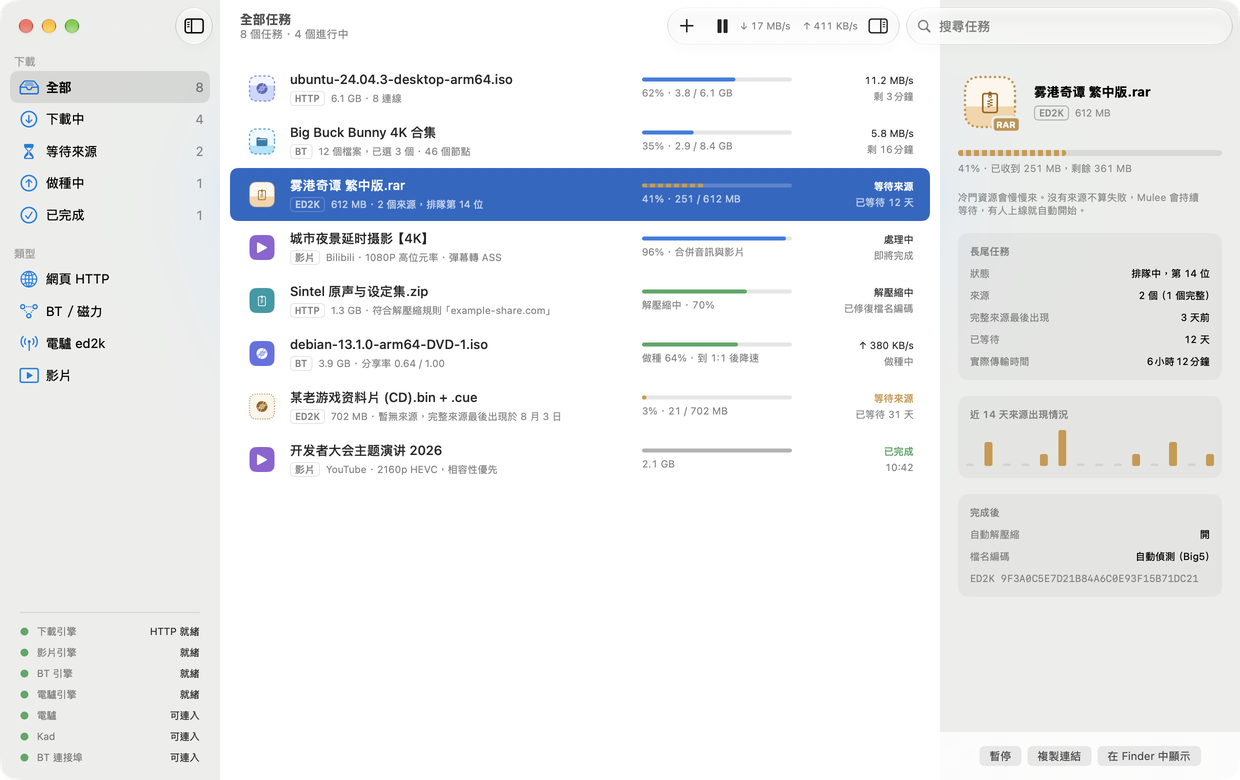
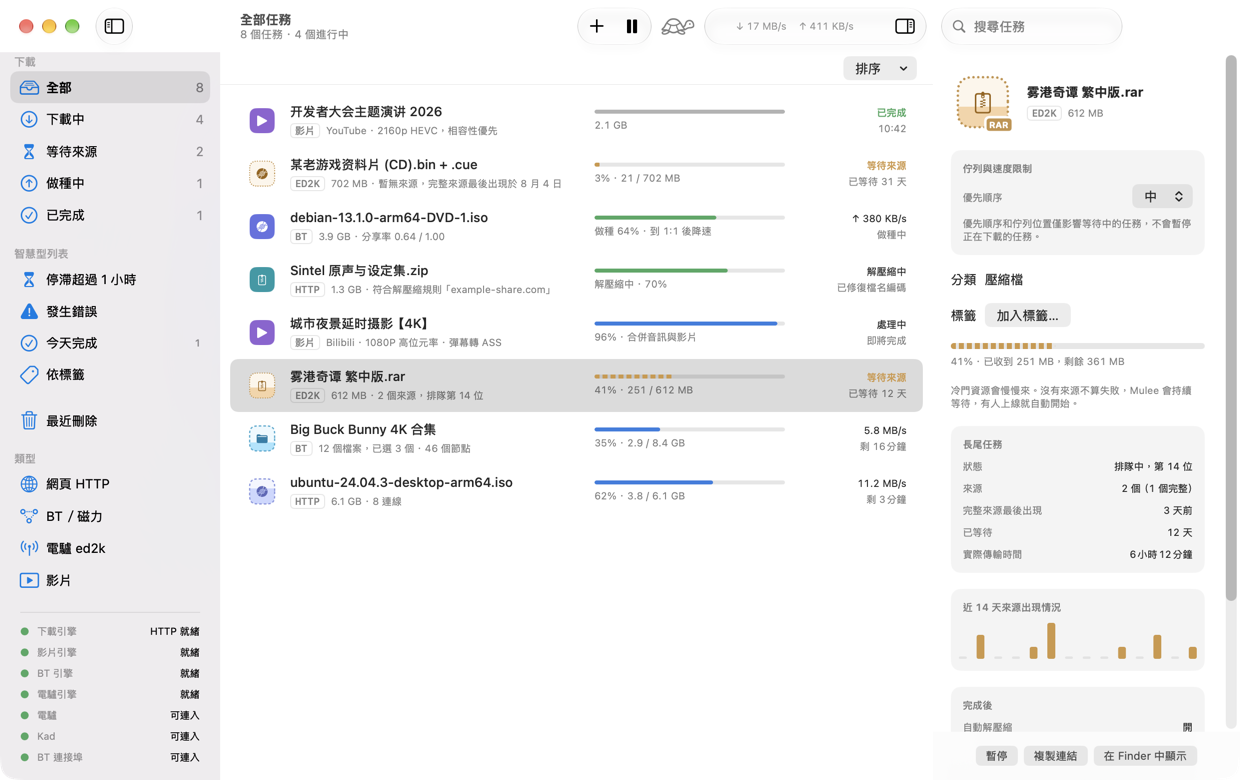
docs: new screenshots and README for 0.1.11

diff --git a/README.md b/README.md
@@ -51,13 +51,13 @@
 
 Mulee supports HTTP / HTTPS / FTP, BitTorrent and magnet links, eD2k, and video downloads. Downloads share a queue and settings. It is free and open source, and will never include ads.
 
-Mulee supports **Apple Silicon Macs running macOS 26 or later**. The app is available in English, Simplified Chinese, and Traditional Chinese.
+Mulee supports **Apple Silicon Macs running macOS 26 or later**. The interface supports English, Simplified Chinese, Traditional Chinese, and Japanese, selectable in Settings.
 
 > [!IMPORTANT]
 > Mulee is a download tool. Only download content you have the right to access. Mulee does not include resource search.
 
 > [!NOTE]
-> Mulee is an early release in the 0.1.x series. The current project version is **0.1.3**.
+> Mulee is an early release in the 0.1.x series. The current project version is **0.1.11**.
 
 ---
 
@@ -81,16 +81,17 @@ All tasks shown are sample data. Click an image to view it at full size.
 
 | Feature | Description |
 |---|---|
-| HTTP / HTTPS / FTP | aria2 handles multi-connection downloads, resuming, and restoring tasks after a restart. |
-| BitTorrent / magnet / .torrent | libtorrent 2.0 supports file selection and seeding policies: throttle or stop at a 1:1 share ratio, with an optional exemption for private torrents. Public tracker subscriptions are supported. |
-| eD2k | Uses aMule 3.1 (`amuled`). Downloads of rare files can wait for sources for weeks. Shows queue position, source counts, when a complete source was last seen, and source activity over the past 14 days. Waiting for sources is a normal task state. |
-| Video | Uses yt-dlp, with Bilibili and YouTube as the main supported sites. Bilibili danmaku can be converted to ASS subtitles. Mulee downloads and verifies yt-dlp, Deno, and ffmpeg itself. |
+| HTTP / HTTPS / FTP | aria2 supports multi-connection downloads, resuming after a restart, Metalink, mirrors, proxies, checksums, link replacement to resume downloads, and download rules. HTTP video downloads can play while downloading. |
+| BitTorrent / magnet / .torrent | libtorrent 2.0 supports file selection, public tracker subscriptions and editing, peer bans, torrent creation, watch folders, playback while downloading, and copying magnet links. Seeding policies use share ratio and time limits, with separate settings for private torrents. |
+| eD2k | Uses aMule 3.1 (`amuled`). Downloads of rare files can wait for sources for weeks; task details show queue position, source counts, when a complete source was last seen, and source activity over the past 14 days. |
+| Video | yt-dlp supports Bilibili parts and collections and individual video selection from YouTube playlists, subtitles, audio-only downloads, time ranges, and embedding metadata, thumbnails, and chapters; Bilibili danmaku can be converted to ASS subtitles. Mulee downloads and verifies yt-dlp, Deno, ffmpeg, and ffprobe itself. |
 | Thunder links | Decodes `thunder://` links and passes the original URL to the appropriate engine. |
 | Automatic extraction | 7-Zip extracts completed downloads, stores password-rule secrets in Keychain, and repairs garbled GBK / Big5 / Shift-JIS filenames. |
+| Queue & organization | Per-task speed limits and priorities, stalled tasks yielding their slots, queue ordering, sorting, tags, smart lists, Recently Deleted, and tracking of moved files. Global speed and concurrency limits apply across download types. |
 | Network diagnostics | Checks whether P2P traffic goes through a proxy and whether listening ports accept incoming connections. Includes an eD2k direct rule to copy and instructions for port forwarding. |
-| macOS integration | Default handler for magnet / ed2k / thunder / .torrent, Chrome and Safari extensions, live menu bar speeds, and sleep prevention while downloading. |
+| macOS integration | Default handler for magnet / ed2k / thunder / .torrent, Chrome / Safari extensions, live speed in the menu bar, Dock badge and menu, torrent previews in Finder, Shortcuts, interface sounds and notifications. Downloads pause when their disk is disconnected or the Mac sleeps, and finished files carry their source for Gatekeeper checks. |
 
-The app bundles four helpers built from pinned source versions: `aria2c`, `mulee-torrentd`, `amuled`, and `7zz`. Their dynamic dependencies are limited to system libraries. The distributed app is Developer ID signed and notarized by Apple.
+The app bundles four download helpers built from pinned source versions (`aria2c`, `mulee-torrentd`, `amuled`, and `7zz`), plus Safari and Quick Look preview extensions. The four helpers dynamically link only system libraries; aria2 has Metalink enabled and uses the system libxml2. The distributed app is Developer ID signed and notarized by Apple.
 
 ---
 
